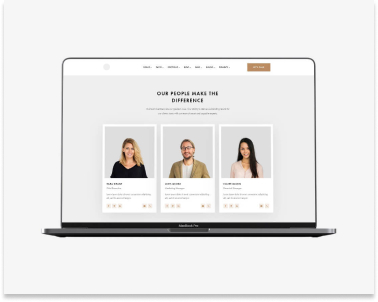
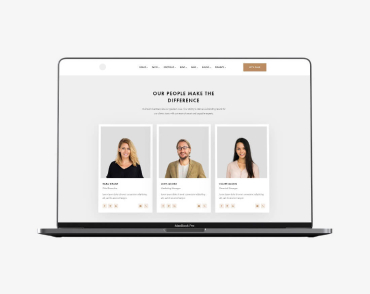
second commit
исправленное дз

diff --git a/portfolio.html b/portfolio.html
@@ -5,6 +5,7 @@
       <meta http-equiv="X-UA-Compatible" content="IE=edge">
       <meta name="viewport" content="width=device-width, initial-scale=1.0">
       <link href="https://fonts.googleapis.com/css2?family=Raleway:wght@700&family=Roboto:wght@400;500;700;900&display=swap" rel="stylesheet">
+      <link rel="stylesheet" href="https://cdnjs.cloudflare.com/ajax/libs/modern-normalize/1.1.0/modern-normalize.min.css" integrity="sha512-wpPYUAdjBVSE4KJnH1VR1HeZfpl1ub8YT/NKx4PuQ5NmX2tKuGu6U/JRp5y+Y8XG2tV+wKQpNHVUX03MfMFn9Q==" crossorigin="anonymous" referrerpolicy="no-referrer" />
       <link rel="stylesheet" href="./css/styles.css">
        <title>Document</title>
     </head>
@@ -30,81 +31,102 @@
         
         <main>
             <section class="section">
-                <h1 class="hidden-text"><span>Портфоліо</span></h1>
-                <div class="filter-list">
-                    <ul class="list filter">
-                        <li class="button-filter"><button type="button" class="button">Все</button></li>
-                        <li class="button-filter"><button type="button" class="button">Веб-сайти</button></li>
-                        <li class="button-filter"><button type="button" class="button">Додатки</button></li>
-                        <li class="button-filter"><button type="button" class="button">Дизайн</button></li>
-                        <li class="button-filter"><button type="button" class="button">Маркетинг</button></li>
-                    </ul>
-                </div>
+                <div class="conteiner">
+                    <h1 class="hidden-text">Портфоліо</h1>
+                    <div class="filter-list">
+                        <ul class="list filter">
+                            <li class="button-filter"><button type="button" class="button">Все</button></li>
+                            <li class="button-filter"><button type="button" class="button">Веб-сайти</button></li>
+                            <li class="button-filter"><button type="button" class="button">Додатки</button></li>
+                            <li class="button-filter"><button type="button" class="button">Дизайн</button></li>
+                            <li class="button-filter"><button type="button" class="button">Маркетинг</button></li>
+                        </ul>
+                    </div>
                     <ul class="list project">
                         <li class="project-img">
                             <a href="">
                                 <img src="./imeges/technokrak.jpg" alt="технокряк" width="370">
-                                <h2 class="title-portfolio">Технокряк</h2>
-                                <p class="title-p">Веб-сайт</p>
+                                <div class="project-title">
+                                    <h2 class="title-portfolio">Технокряк</h2>
+                                    <p class="title-p">Веб-сайт</p>
+                                </div>
                             </a>
                         </li>
                         <li class="project-img">
                             <a href="">
                                 <img src="./imeges/orlean.jpg" alt="Постер New Orlean vs Golden Star" width="370">
-                                <h2 class="title-portfolio">Постер New Orlean vs Golden Star</h2>
-                                <p class="title-p">Дизайн</p>
+                                <div class="project-title">
+                                    <h2 class="title-portfolio">Постер New Orlean vs Golden Star</h2>
+                                    <p class="title-p">Дизайн</p>
+                                </div>
                             </a>
                         </li>
                         <li class="project-img">
                             <a href="">
                                 <img src="./imeges/resto.jpg" alt="Ресторан Seafood" width="370">
-                                <h2 class="title-portfolio">Ресторан Seafood</h2>
-                                <p class="title-p">Додаток</p>
+                                <div class="project-title">
+                                    <h2 class="title-portfolio">Ресторан Seafood</h2>
+                                    <p class="title-p">Додаток</p>
+                                </div>
                             </a>
                         </li>
                         <li class="project-img">
                             <a href="">
                                 <img src="./imeges/prime.jpg" alt="Проєкт Prime" width="370">
-                                <h2 class="title-portfolio">Проєкт Prime</h2>
-                                <p class="title-p">Маркетинг</p>
+                                <div class="project-title">
+                                    <h2 class="title-portfolio">Проєкт Prime</h2>
+                                    <p class="title-p">Маркетинг</p>
+                                </div>
                             </a>
                         </li>
                         <li class="project-img">
                             <a href="">
                                 <img src="./imeges/box.jpg" alt="Проєкт Boxes" width="370">
-                                <h2 class="title-portfolio">Проєкт Boxes</h2>
-                                <p class="title-p">Додаток</p>
+                                <div class="project-title">
+                                    <h2 class="title-portfolio">Проєкт Boxes</h2>
+                                    <p class="title-p">Додаток</p>
+                                </div>
                             </a>
                         </li>
                         <li class="project-img">
                             <a href="">
                                 <img src="./imeges/borders.jpg" alt="Inspiration has no Borders" width="370">
-                                <h2 class="title-portfolio">Inspiration has no Borders</h2>
-                                <p class="title-p">Веб-сайт</p>
+                                <div class="project-title">
+                                    <h2 class="title-portfolio">Inspiration has no Borders</h2>
+                                    <p class="title-p">Веб-сайт</p>
+                                </div>
                             </a>
                         </li>
                         <li class="project-img">
                             <a href="">
                                 <img src="./imeges/limited.jpg" alt="Видання Limited Edition" width="370">
-                                <h2 class="title-portfolio">Видання Limited Edition</h2>
-                                <p class="title-p">Дизайн</p>
+                                <div class="project-title">
+                                    <h2 class="title-portfolio">Видання Limited Edition</h2>
+                                    <p class="title-p">Дизайн</p>
+                                </div>
                             </a>
                         </li>
                         <li class="project-img">
                             <a href="">
                                 <img src="./imeges/lab.jpg" alt="Проект LAB" width="370">
-                                <h2 class="title-portfolio">Проект LAB</h2>
-                                <p class="title-p">Маркетинг</p>
+                                <div class="project-title">
+                                    <h2 class="title-portfolio">Проект LAB</h2>
+                                    <p class="title-p">Маркетинг</p>
+                                </div>
                             </a>
                         </li>
                         <li class="project-img">
                             <a href="">
                                 <img src="./imeges/growing.jpg" alt="Growing Business" width="370">
-                                <h2 class="title-portfolio">Growing Business</h2>
-                                <p class="title-p">Додаток</p>
+                                <div class="project-title">
+                                    <h2 class="title-portfolio">Growing Business</h2>
+                                    <p class="title-p">Додаток</p>
+                                </div>                                
                             </a>
                         </li>
                     </ul>
+                </div>  
+
             </section>
         </main>
         <footer class="underside">

diff --git a/css/styles.css b/css/styles.css
@@ -19,12 +19,11 @@ body {
   background-color: var(--primery-wite-color);
   color: var(--primery-text-color);
   font-family: Roboto, sans-serif;
-  font-size: 14;
+  font-size: 14px;
   letter-spacing: 0.03em;
 }
 h1, h2, h3, p {
-  margin-top: 0;
-  margin-bottom: 0;
+  margin: 0;
 }
 ul, ol {
   margin-top: 0;
@@ -42,6 +41,7 @@ img {
 .header {
   padding-top: 24px;
   padding-bottom: 24px;
+  border-bottom: 1px solid #ECECEC;
 }
 
 .conteiner {
@@ -54,12 +54,10 @@ img {
 .header-conteiner {
   display: flex;
   align-items: center;
-  justify-content: space-between;
 }
 .navigation {
   display: flex;
   align-items: center;
- 
 }
 .site-nav {
   list-style: none;
@@ -69,7 +67,7 @@ img {
 .header-contact {
   display: flex;
   align-items: center;
-
+  margin-left: auto;
 }
 .nav-list-item:not(:last-child) {
   margin-right: 50px;
@@ -92,9 +90,9 @@ img {
   line-height: 1.2;
   letter-spacing: 0.03em;
   text-decoration: none;
- margin-right: 92px;
- margin-top: 24px;
- margin-bottom: 24px;
+  margin-right: 93px;
+  padding-top: 24px;
+  padding-bottom: 24px;
 }
 .logo-blue {
   color: var(--accent-text-color);
@@ -105,7 +103,10 @@ img {
 
 /* навигация  */
 
-
+.nav-list-item {
+  padding-top: 32px;
+  padding-bottom: 32px;
+}
 .site-nav a {
   color: var(--title-text-color);
   font-weight: 500;
@@ -167,7 +168,7 @@ color: var(--accent-text-color);
   min-width: 216px;
   padding: 10px 30px;
   border-radius: 4px;
-  border-color: var(--accent-text-color);
+  border: none;
   font-family: Roboto, sans-serif;
   font-weight: 500;
   font-size: 16px;
@@ -180,7 +181,9 @@ color: var(--accent-text-color);
   
 }
 /* преимущества */
-.hidden-text > span {display: none;} 
+.hidden-text {
+  visibility: hidden;
+}
 .advantage {
   display: flex;
 }
@@ -189,9 +192,9 @@ color: var(--accent-text-color);
 }
 .title-advantage {
   margin-bottom: 10px;
-  color: var(--title-text-color)
+  color: var(--title-text-color);
   font-weight: 700;
-  font-size: 14;
+  font-size: 14px;
   line-height: 1.14;
   letter-spacing: 0.03em;
   font-style: normal;
@@ -204,6 +207,9 @@ color: var(--accent-text-color);
 
 }
 /* чим ми займаємося */
+.section-imeges {
+  padding-top: 0px;
+}
 .imeges {
   display: flex;
 }
@@ -226,7 +232,7 @@ color: var(--accent-text-color);
 .name {
   margin-top: 30px;
   margin-bottom: 10px;
-  color: var(--title-text-color)
+  color: var(--title-text-color);
   font-weight: 500;
   font-style: normal;
   line-height: 1.18; 
@@ -309,11 +315,17 @@ margin-right: 8px;
 }
 .project-img:not(:nth-last-child(-n+3)) {
   margin-bottom: 30px;
- }
+}
 .project-img {
   box-sizing: border-box;
   background: var(--primery-wite-color);
-  border: 1px solid #EEEEEE;
+  /* border: 1px solid #EEEEEE; */
+}
+.project-title {
+  padding: 20px 24px;
+  border-right: 1px solid #EEEEEE;
+  border-bottom: 1px solid #EEEEEE;
+  border-left: 1px solid #EEEEEE;
 }
 /* подчёркивания в портфолио */
 .list a {
@@ -322,7 +334,7 @@ margin-right: 8px;
 }
   /* текст страницы портфолио */
 .title-portfolio {
-  margin: 20px 24px 4px 24px;
+  margin-bottom: 4px;
   font-weight: 700;
   font-style: normal;
   font-size: 18px;
@@ -331,7 +343,6 @@ margin-right: 8px;
   color: var(--title-text-color);
 }
 .title-p {
-  margin: 0 24px 20px 24px;
   font-size: 16px;
   line-height: 1.8;
   letter-spacing: 0.03em;
@@ -352,6 +363,7 @@ padding-bottom: 54px;
 
 .plays a {
   color: var(--primery-wite-color);
+  font-weight: normal;
   font-style: normal;
   font-size: 14px;
   line-height: 1.71;
@@ -367,6 +379,7 @@ padding-bottom: 54px;
   margin-bottom: 10px;
 }
 .mail-tel a {
+  font-weight: normal;
   font-style: normal;
   font-size: 14px;
   line-height: 1.71;

diff --git a/index.html b/index.html
@@ -17,7 +17,7 @@
                            <span class="logo-blue">Web</span>Studio
                     </a>
                     <ul class="site-nav list">
-                        <li class="nav-list-item"> <a href="./index.html" class="link  current">Студія</a></li>
+                        <li class="nav-list-item"> <a href="./index.html" class="link current">Студія</a></li>
                         <li class="nav-list-item"> <a href="./portfolio.html" class="link">Портфоліо</a></li>
                         <li class="nav-list-item"> <a href="" class="link">Контакти</a></li>
                     </ul>
@@ -38,7 +38,7 @@
             </section>
             <section class="section">
                 <div class="conteiner">
-                    <h2 class="title hidden-text"> <span>Переваги</span></h2>
+                    <h2 class="hidden-text">Переваги</h2>
                     <ul class="list advantage">
                         <li class="advantage-list">
                             <h3 class="title-advantage">УВАГА ДО ДЕТАЛЕЙ</h3>
@@ -59,7 +59,7 @@
                     </ul>
                 </div>
             </section>
-            <section class="section">
+            <section class="section section-imeges">
                 <div class="conteiner">
                     <h2 class="title">Чим ми займаємося</h2>
                     <ul class="list imeges">
